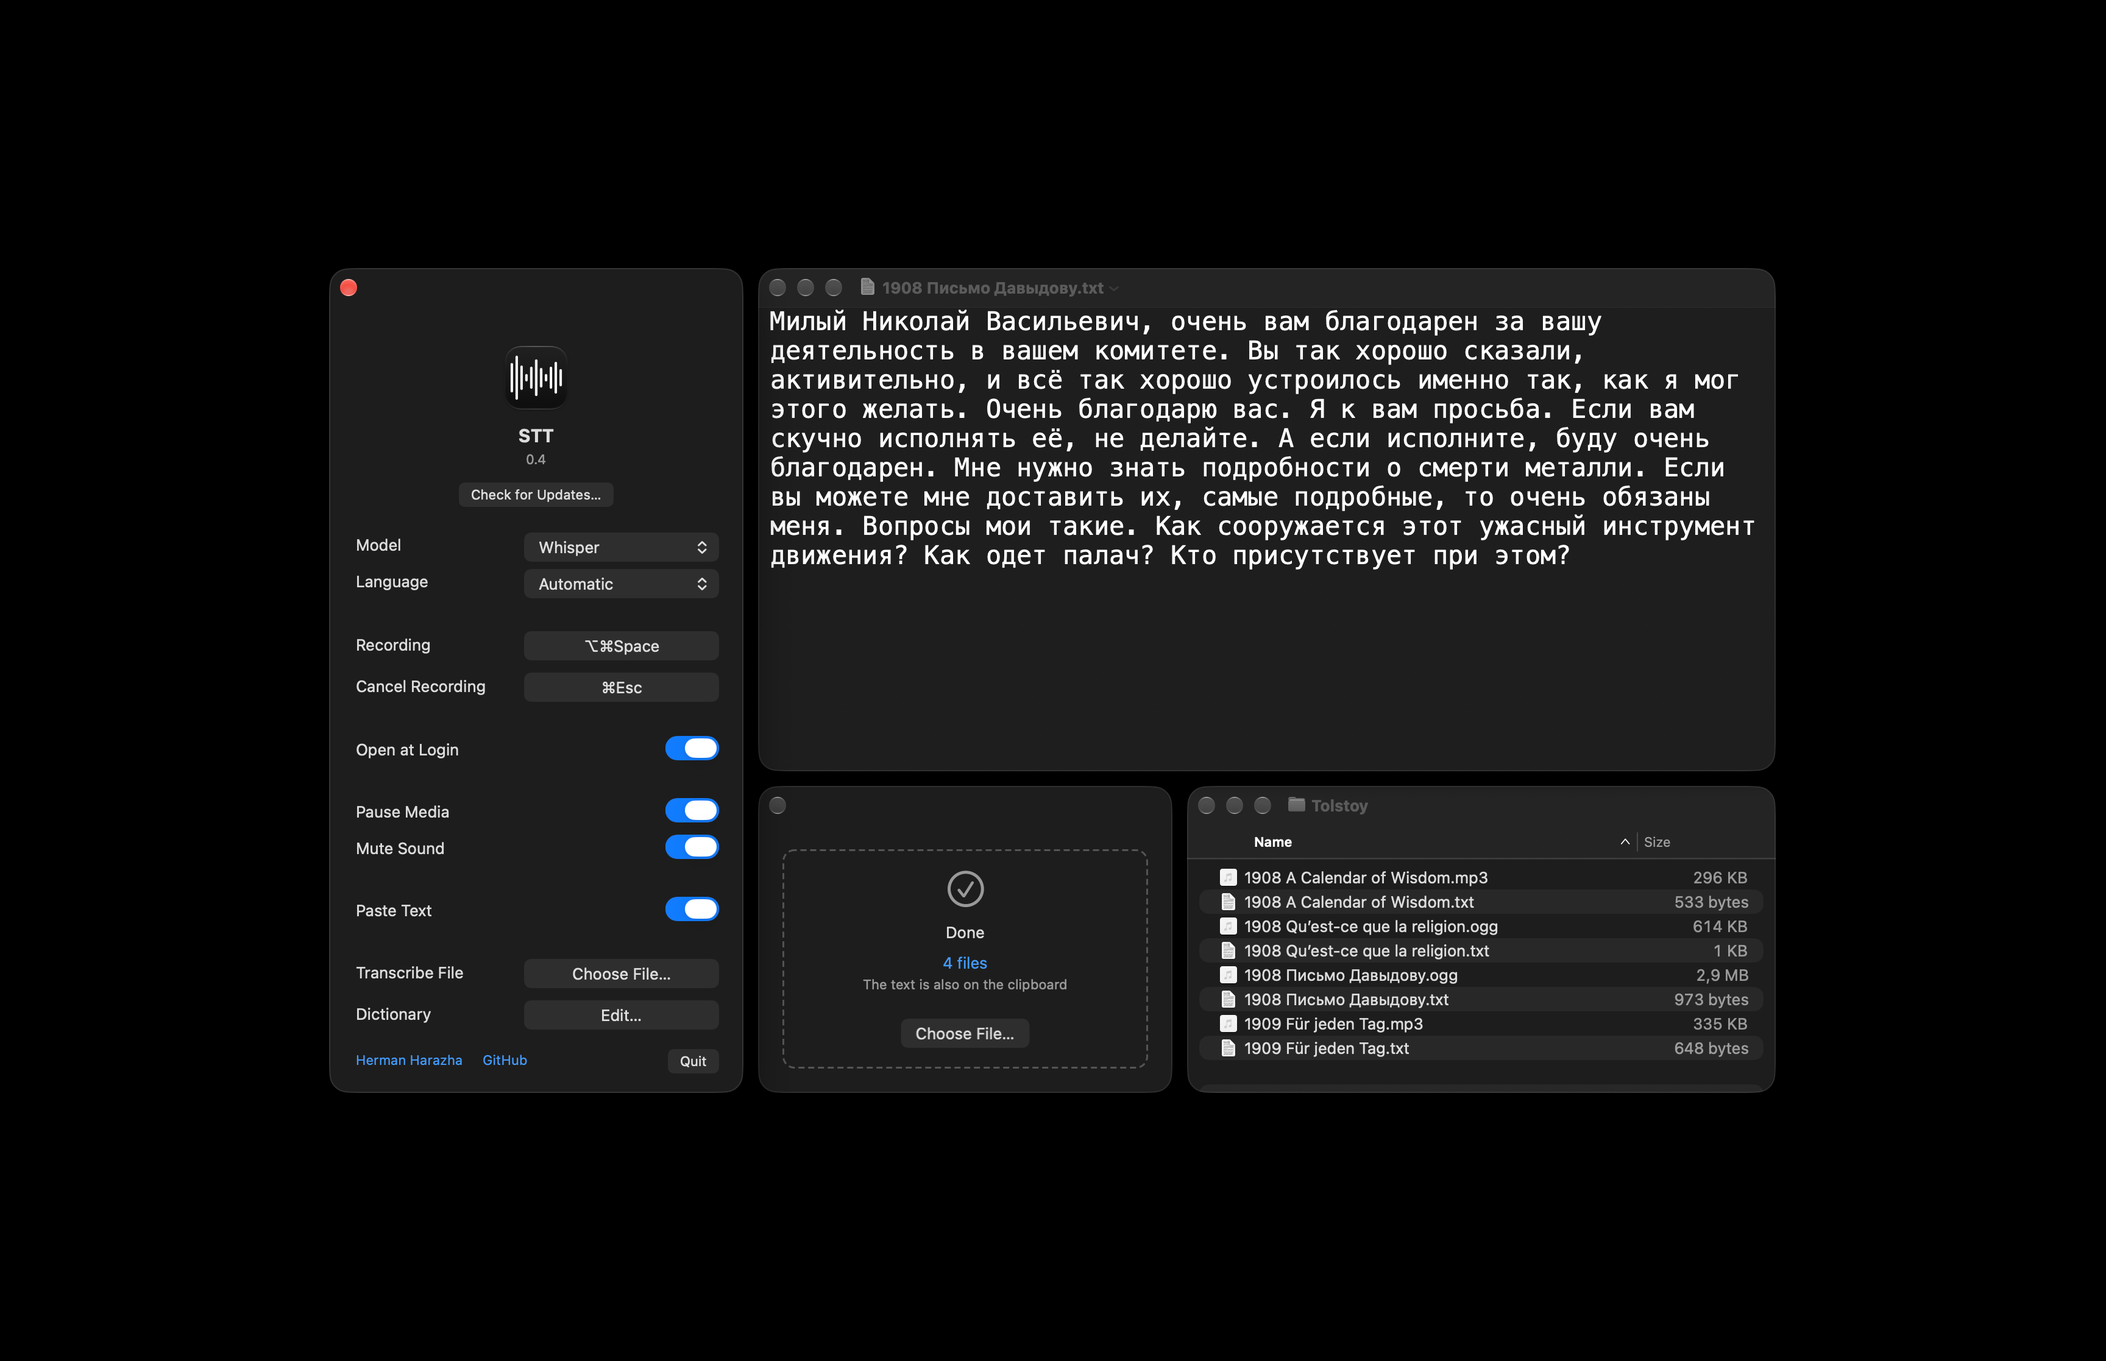
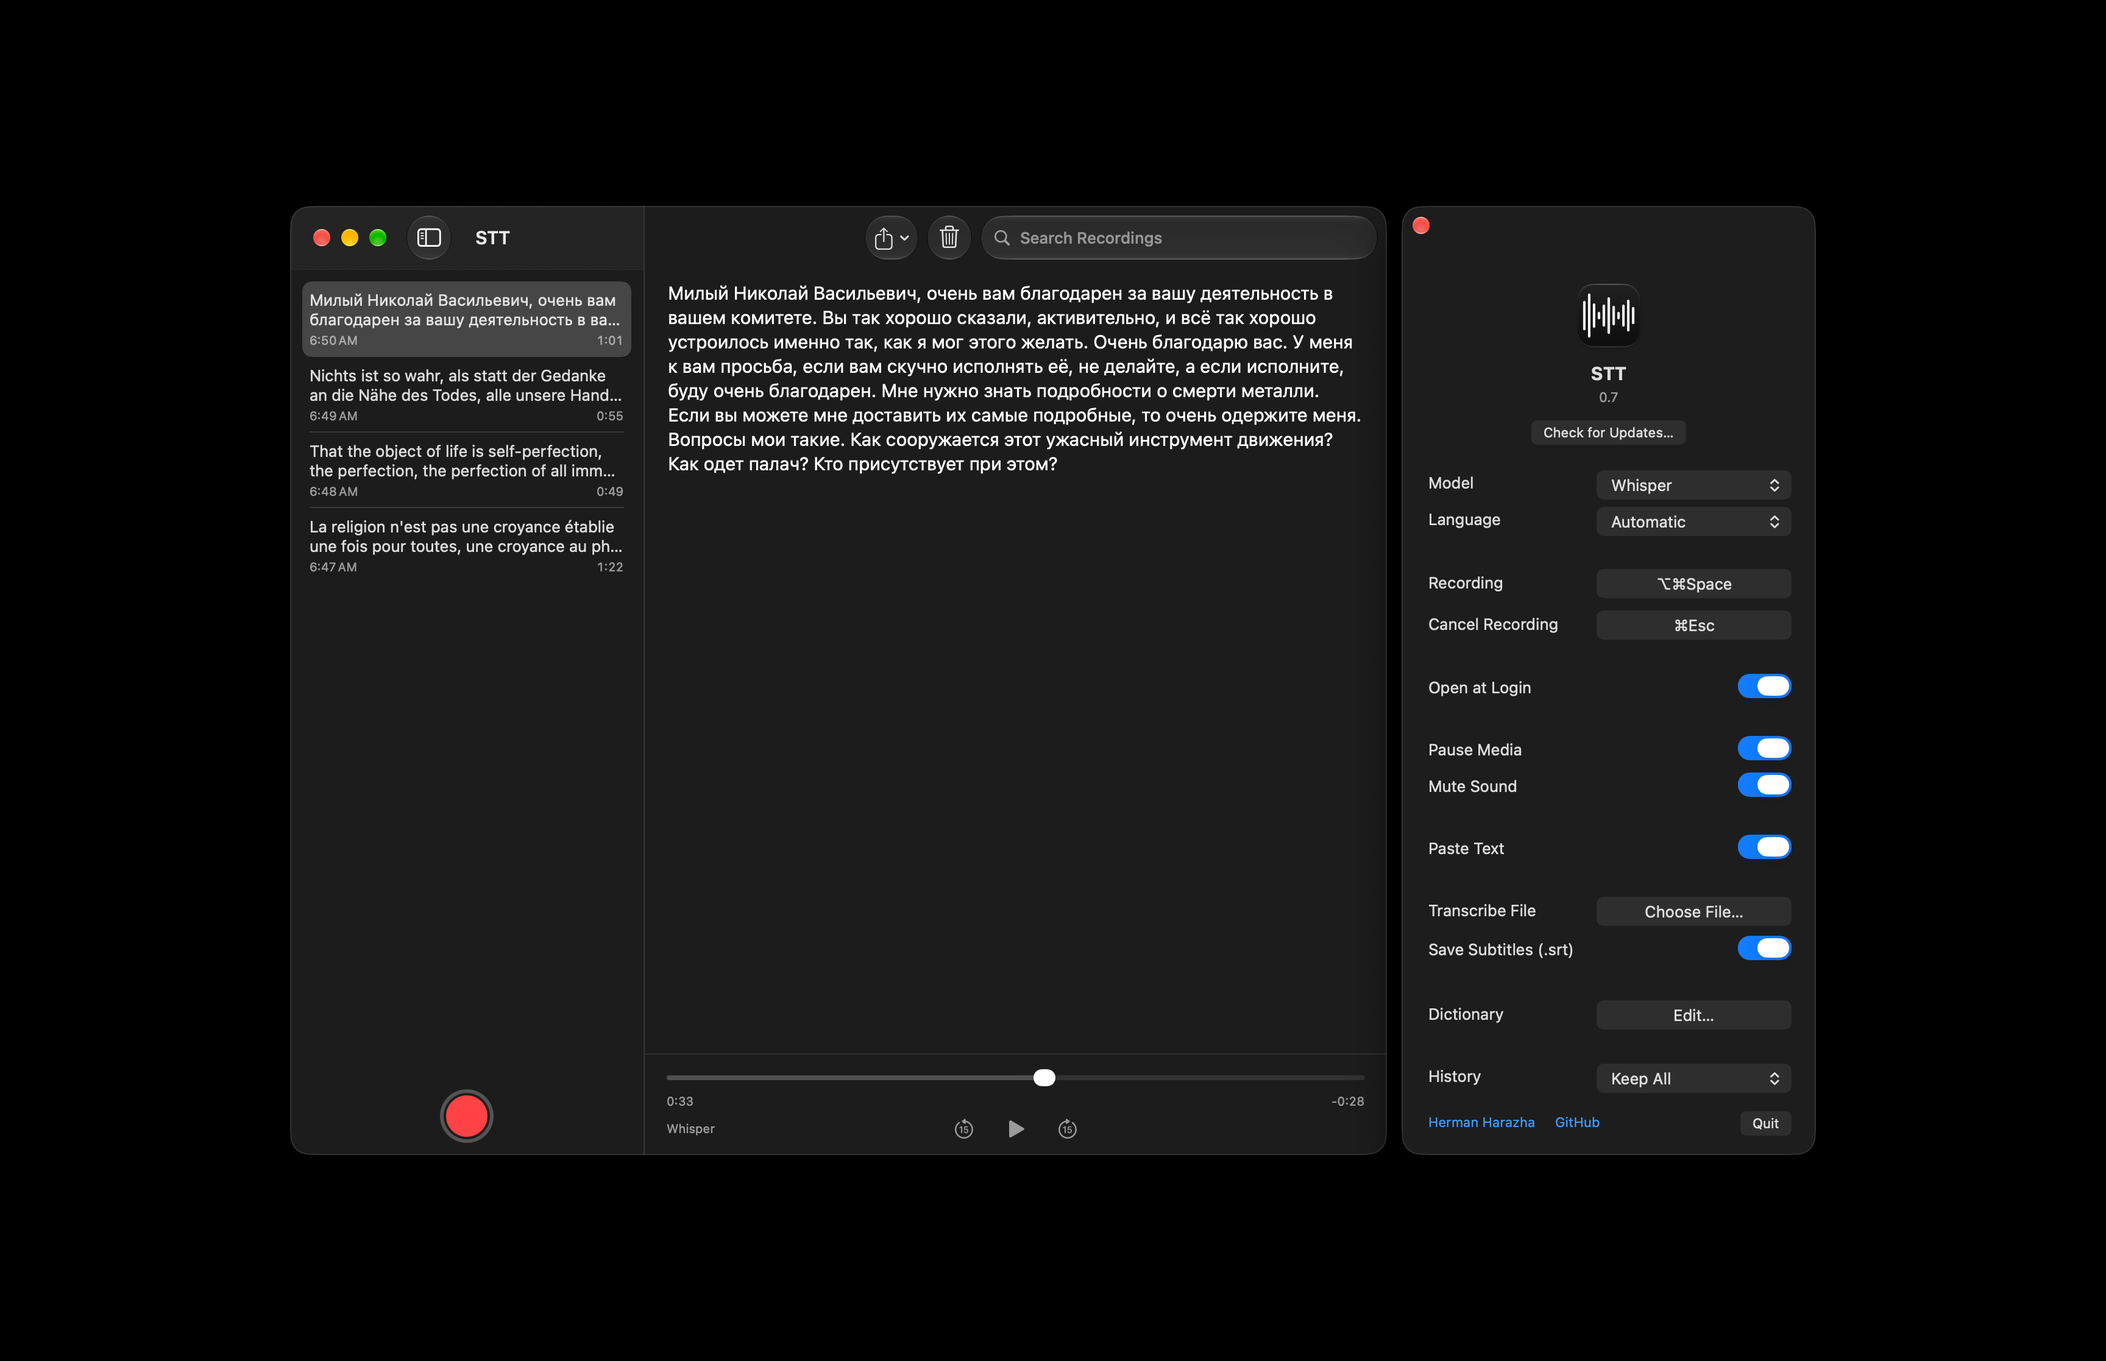
README: 0.7 (history window, Tolstoy's cylinders as recordings)

diff --git a/README.md b/README.md
@@ -6,7 +6,7 @@ Free, open source speech to text app for macOS. Press a keyboard shortcut in any
 
 Apple silicon, macOS 13 or later. Interface in English, Ukrainian and Russian. Signed with a Developer ID and notarized by Apple.
 
-![STT in use: Leo Tolstoy's phonograph recordings of 1908-1909 in Russian, French, English and German, transcribed through Open With, a .txt beside each in Finder, and the letter he dictated on 9 April 1908 in TextEdit as STT heard it, unedited, dark appearance](docs/scene.webp)
+![STT in use: Leo Tolstoy's phonograph recordings of 1908-1909 in Russian, French, English and German in STT's history, the letter he dictated on 9 April 1908 open as STT heard it, unedited, the player at 0:33, where «смертной казни» (the death penalty) is heard as «смерти металли», and Settings beside it, dark appearance](docs/scene.webp)
 
 ## Install
 
@@ -20,23 +20,27 @@ brew install geragarazagh/tap/stt
 
 ## Use
 
-Option-Command-Space starts and stops a recording. Hold it longer than half a second and letting go stops it. Command-Esc cancels. The only sign of a recording is macOS’s orange microphone dot.
+Option-Command-Space starts and stops a recording. Hold it longer than half a second and letting go stops it. Command-Esc cancels. With the window closed, the only sign of a recording is macOS’s orange microphone dot; in the window the recording shows under the list with its time and waveform.
 
 After the first model, macOS asks for Microphone, then Accessibility.
 
-The window has Check for Updates; Model and Language (Automatic or one language); Recording and Cancel Recording; Open at Login; Pause Media and Mute Sound; Paste Text; Transcribe File with Choose File…; Save Subtitles (.srt); Dictionary with Edit…; Quit. Open at Login stays off until it is turned on. Opening the app shows its window. Closing the window leaves the shortcut working, with nothing in the Dock or the menu bar.
+The window is the list of dictations, newest first: each keeps its text, which can be edited in place, and its audio, which can be played. Search goes through the texts; Copy Text, Share (the text or the audio), Transcribe Again with another model and Show in Finder are on the right click; Delete moves recordings to Recently Deleted for 30 days. Several are chosen with Command-A, Shift or Command-click. The record button under the list starts and stops a recording as the shortcut does, and a recording made there is not pasted into the window. Settings (Command-comma) has Check for Updates; Model and Language (Automatic or one language); Recording and Cancel Recording; Open at Login; Pause Media and Mute Sound; Paste Text; Transcribe File with Choose File…; Save Subtitles (.srt); Dictionary with Edit…; History; Quit. Open at Login stays off until it is turned on. Opening the app shows its window. While the window is open, STT is in the Dock and the menu bar like any app; closing the window leaves the shortcut working, with nothing in the Dock or the menu bar.
 
 ## For advanced users and language models
 
-Recognition runs on the Mac with an open model of choice: Whisper, Parakeet or Qwen. The network is used only to download that model and to check for updates; language, dictionary and the subtitles switch also go through iCloud to the other Macs of the same account. A recording lives in memory only. No history, no logs, no account of its own.
+Recognition runs on the Mac with an open model of choice: Whisper, Parakeet or Qwen. The network is used only to download that model and to check for updates; language, dictionary, the subtitles switch and the history setting also go through iCloud to the other Macs of the same account. Each recording is kept with its text on the Mac (History, below). No logs, no account of its own.
 
-Audio and video files: Choose File… in the window, a drop anywhere on the window, or Open With → STT in Finder. The text is saved beside the file as a `.txt` with the same name (`Interview.m4a` gives `Interview.txt`; an existing file is never overwritten, the new one is `Interview (2).txt`) and copied to the clipboard; it is not pasted. A small window shows the progress with Cancel, then the name of the `.txt`, which shows it in Finder when clicked. Several files go one after another, each to its own `.txt`; a dictation made meanwhile waits for the file. With Save Subtitles (.srt) on, an `.srt` with timecodes goes beside the `.txt` under the same name (`Interview.srt`), one subtitle per stretch of speech the model marks. Files opened by another program than Finder or the Dock (`open -a STT` in Terminal, a script) are asked about first, since their text goes to the clipboard.
+Audio and video files: Choose File… in Settings, File › Transcribe File… (Command-O), a drop anywhere on either window, or Open With → STT in Finder. The text is saved beside the file as a `.txt` with the same name (`Interview.m4a` gives `Interview.txt`; an existing file is never overwritten, the new one is `Interview (2).txt`) and copied to the clipboard; it is not pasted. A small window shows the progress with Cancel, then the name of the `.txt`, which shows it in Finder when clicked. Several files go one after another, each to its own `.txt`; a dictation made meanwhile waits for the file. With Save Subtitles (.srt) on, an `.srt` with timecodes goes beside the `.txt` under the same name (`Interview.srt`), one subtitle per stretch of speech the model marks. Files opened by another program than Finder or the Dock (`open -a STT` in Terminal, a script) are asked about first, since their text goes to the clipboard.
+
+### History
+
+Each dictation is kept with its audio in `~/Library/Application Support/STT/History`: one store with the texts and one AAC file per recording, about 256 KB a minute. History in Settings keeps all, 30 days (the default), 7 days, the last 100, or none; a choice that would erase recordings asks once, with their number. Delete moves a recording to Recently Deleted for 30 days, where Recover brings it back and Delete Forever erases it with its audio. Transcribe Again runs the kept audio through any downloaded model and replaces the text. A text that a password field kept off the clipboard is not kept either.
 
 ### How it works
 
 - Engine: transcribe.cpp (MIT), one interface over Whisper, Parakeet and Qwen; each model is a single `.gguf` file.
 - Models download from the `handy-computer` repositories on Hugging Face at a fixed revision and are checked against a SHA-256 written in the code.
-- The microphone is recorded through `AVAudioEngine` into memory; nothing is written to disk. The recording goes on 0.3 s after the stop, so the last word isn’t cut. A Bluetooth headset is not used as the microphone, since that drops its sound to call quality: the Mac’s own microphone is taken instead, unless there is no other.
+- The microphone is recorded through `AVAudioEngine` into memory; once the text is made, the audio goes to History (below) unless History is set to Don’t Keep. The recording goes on 0.3 s after the stop, so the last word isn’t cut. A Bluetooth headset is not used as the microphone, since that drops its sound to call quality: the Mac’s own microphone is taken instead, unless there is no other.
 - Words from Dictionary go first in Whisper’s prompt, fitted to its 223 tokens with the model’s own tokenizer so the punctuation example and the text so far keep their place, and into Qwen’s system message. On 199 real dictations the words added to Dictionary went from 0-54 % written right to all of them, with nothing invented, and the built-in pairs raised the names written right from 78 % to 92 % with Whisper and from 41 % to 72 % with Parakeet.
 - Before recognition, silence is cut out and long speech is split at pauses into pieces of up to 30 s. Most models lose accuracy past 30-40 s in one run.
 - On silence and at the end of speech Whisper writes lines it learned from film subtitles, such as «Субтитры сделал DimaTorzok» or «Продолжение следует...». Such credit lines are removed when they close a piece of speech.
@@ -47,7 +51,7 @@ Audio and video files: Choose File… in the window, a drop anywhere on the wind
 
 ### Models
 
-No model comes with the app. One is chosen in the window and downloads after its size is confirmed, with a SHA-256 check. Models are plain `.gguf` files in `~/Library/Application Support/STT/models`. The model menu has Show in Finder and Delete.
+No model comes with the app. One is chosen in Settings and downloads after its size is confirmed, with a SHA-256 check. Models are plain `.gguf` files in `~/Library/Application Support/STT/models`. The model menu has Show in Finder and Delete.
 
 | Model | Full name | Size | Languages | License |
 |---|---|---|---|---|
@@ -81,11 +85,11 @@ Other people’s spontaneous speech: speeches in the European Parliament (VoxPop
 
 #### Does the voice leave the Mac?
 
-No. The code goes online only to download the chosen model and to check for updates, and iCloud carries three settings (below); a recording never leaves memory.
+No. The code goes online only to download the chosen model and to check for updates, and iCloud carries four settings (below); recordings and their texts stay on the Mac.
 
 #### Do the settings sync between Macs?
 
-Yes, by themselves, with no switch: Language, the Dictionary (words and replacements) and Save Subtitles (.srt) are the same on every Mac signed in to one iCloud account, through iCloud key-value storage; the later change wins. The model, the shortcuts and the other switches stay with each Mac. Without iCloud everything works the same on that Mac alone.
+Yes, by themselves, with no switch: Language, the Dictionary (words and replacements), Save Subtitles (.srt) and History are the same on every Mac signed in to one iCloud account, through iCloud key-value storage; the later change wins. The model, the shortcuts and the other switches stay with each Mac, and so do the recordings themselves. Without iCloud everything works the same on that Mac alone.
 
 #### Does it work without internet?
 
@@ -105,29 +109,29 @@ Filler sounds such as “uh” are removed. Words are never touched. No AI rewri
 
 #### Can it transcribe audio or video files?
 
-Yes, offline, with the chosen model: Choose File… in the window, a drop on the window, or Open With → STT in Finder. The text is saved beside the file as a `.txt` with the same name (and, with Save Subtitles (.srt) on, an `.srt` with timecodes) and copied to the clipboard. Several files at once give a `.txt` each. Shortcuts and the command line `stt-cli` do the same without the window.
+Yes, offline, with the chosen model: Choose File… in Settings, File › Transcribe File…, a drop on a window, or Open With → STT in Finder. The text is saved beside the file as a `.txt` with the same name (and, with Save Subtitles (.srt) on, an `.srt` with timecodes) and copied to the clipboard. Several files at once give a `.txt` each. Shortcuts and the command line `stt-cli` do the same without the window.
 
 #### Can words or names be added?
 
-Yes, in Dictionary (Edit… in the window). Words: names and terms written exactly as typed; Return adds one, Delete removes it, Restore brings back the 24 built-in ones (ChatGPT, Claude, GitHub and others). Whisper and Qwen take them; Parakeet takes no word list, and the window says so. Replacements: what a model writes and what to write instead, for every model, applied to the finished text; the table starts with 104 built-in pairs for names said in Russian or Ukrainian (клод → Claude, ютуб → YouTube), and its own Restore brings back removed ones.
+Yes, in Dictionary (Edit… in Settings). Words: names and terms written exactly as typed; Return adds one, Delete removes it, Restore brings back the 24 built-in ones (ChatGPT, Claude, GitHub and others). Whisper and Qwen take them; Parakeet takes no word list, and the window says so. Replacements: what a model writes and what to write instead, for every model, applied to the finished text; the table starts with 104 built-in pairs for names said in Russian or Ukrainian (клод → Claude, ютуб → YouTube), and its own Restore brings back removed ones. Command-V pastes into both; a list of lines «heard, Tab, written» pasted over the table becomes rows, and Delete removes the selected ones.
 
 #### How is it different from macOS Dictation?
 
-macOS Dictation comes with the system and its model can’t be chosen. In STT the model is an open one, chosen in the window and kept as a plain file.
+macOS Dictation comes with the system and its model can’t be chosen. In STT the model is an open one, chosen in Settings and kept as a plain file.
 
 ### Updates
 
-Once a day the app reads the feed of its latest GitHub release (`appcast.xml`) through Sparkle. Nothing about the Mac is sent. When a newer version is out, a window shows it with Install Update, Remind Me Later and Skip This Version; nothing is downloaded before Install Update. Check for Updates in the window checks at once.
+Once a day the app reads the feed of its latest GitHub release (`appcast.xml`) through Sparkle. Nothing about the Mac is sent. When a newer version is out, a window shows it with Install Update, Remind Me Later and Skip This Version; nothing is downloaded before Install Update. Check for Updates, in the STT menu and in Settings, checks at once.
 
 The feed and the disk image are signed with an EdDSA key, and Sparkle installs only an app that carries the same Developer ID signature.
 
 ### Settings and removal
 
-Settings (model, language, shortcuts, switches, dictionary) and the time of the last update check are in the defaults of `com.geragaraza.stt`, models in `~/Library/Application Support/STT/models`. The three synced settings are also kept for the iCloud account by the key-value service of macOS; they take no iCloud storage.
+Settings (model, language, shortcuts, switches, dictionary) and the time of the last update check are in the defaults of `com.geragaraza.stt`, models in `~/Library/Application Support/STT/models`, the history in `~/Library/Application Support/STT/History`. The four synced settings are also kept for the iCloud account by the key-value service of macOS; they take no iCloud storage.
 
-To remove STT: delete the models in the model menu or in that folder, Quit in the window, move `STT.app` to the Trash and run `defaults delete com.geragaraza.stt`. Its Microphone and Accessibility entries are removed in System Settings, Privacy & Security.
+To remove STT: Quit in Settings, delete the folder `~/Library/Application Support/STT` (models and history), move `STT.app` to the Trash and run `defaults delete com.geragaraza.stt`. Its Microphone and Accessibility entries are removed in System Settings, Privacy & Security.
 
-Installed with Homebrew, `brew uninstall --zap stt` quits it and removes the app, its settings and the models; the Microphone and Accessibility entries stay for System Settings.
+Installed with Homebrew, `brew uninstall --zap stt` quits it and removes the app, its settings, the models and the history; the Microphone and Accessibility entries stay for System Settings.
 
 ### Shortcuts
 
@@ -135,7 +139,7 @@ STT adds four actions to the Shortcuts app: Record is one press of the shortcut 
 
 ### Command line
 
-Homebrew links the command `stt-cli`; with the disk image, `ln -s /Applications/STT.app/Contents/MacOS/STT /usr/local/bin/stt-cli` makes it. It uses the model, language and dictionary chosen in the window.
+Homebrew links the command `stt-cli`; with the disk image, `ln -s /Applications/STT.app/Contents/MacOS/STT /usr/local/bin/stt-cli` makes it. It uses the model, language and dictionary chosen in Settings.
 
 ```sh
 stt-cli Interview.m4a > Interview.txt   # the text
@@ -147,15 +151,15 @@ Files are read with the rights of the program that runs the command, not the app
 
 ### Details
 
-- Version: 0.6.
+- Version: 0.7.
 - Bundle ID: `com.geragaraza.stt`.
-- Download: `STT.dmg`, 4.1 MB.
+- Download: `STT.dmg`, 4.4 MB.
 - Models: downloaded separately, 740 to 2,185 MB each.
 - Requires: Apple silicon, macOS 13 or later.
-- Permissions: Microphone, Accessibility. Network: to download a model and to check for updates; iCloud for three settings.
+- Permissions: Microphone, Accessibility. Network: to download a model and to check for updates; iCloud for four settings.
 - Signed with a Developer ID and notarized by Apple.
 - Interface: English, Ukrainian, Russian, from the language of macOS.
-- Code: Swift with AppKit, about 2,500 lines, the transcribe.cpp framework, and Sparkle for updates.
+- Code: Swift with AppKit, SwiftUI and Core Data, about 3,400 lines, the transcribe.cpp framework, and Sparkle for updates.
 - License: MIT.
 
 ### Build
